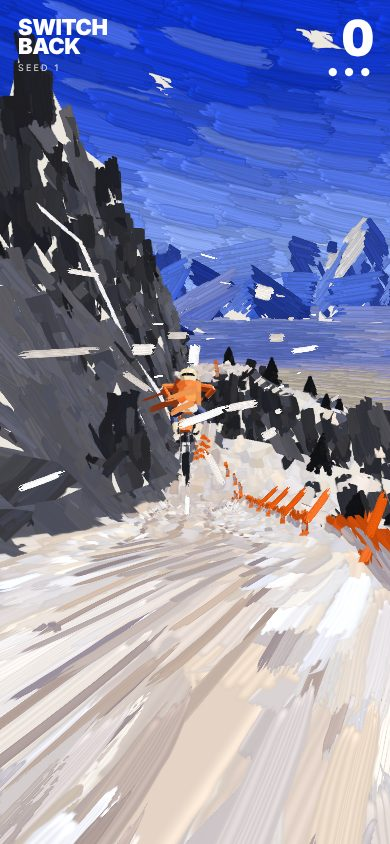
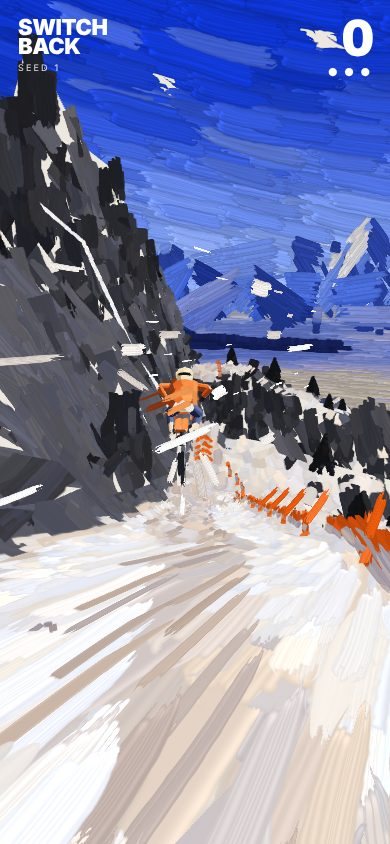
lab/switchback: backdrop parallax per layer, floor rises as you descend, clouds drift
Each backdrop layer drawn on its own, offset by an exaggerated, soft-capped
fraction of the eye's travel since start/respawn; floor rises toward the eye
with descent; painted by order; cloud strokes rotate slowly.

Claude-Session: https://claude.ai/code/session_01XxjdrEubiC3ZZ3ppUeUc93

diff --git a/cells/lab/client/switchback/render.ts b/cells/lab/client/switchback/render.ts
@@ -18,7 +18,7 @@ import type { Rider, Event } from './sim';
 import { GEARS } from './audio';
 import { buildRuts, Trail } from './ruts';
 import { buildGouges } from './gouge';
-import { STROKE, Painter, Strokes, Brush2D, strokesOver, skyStrokes, lineOf, courseStrokes, rangeStrokes, foothillStrokes, valleyStrokes, fallStrokes, flagStrokes, riderStrokes, partShadowStrokes } from './paint';
+import { STROKE, Painter, Strokes, Brush2D, strokesOver, skyStrokes, lineOf, courseStrokes, backdropLayers, valleyStrokes, fallStrokes, flagStrokes, riderStrokes, partShadowStrokes } from './paint';
 
 const VS = `#version 300 es
 in vec4 aP; uniform mat4 uVP; uniform vec3 uOff; uniform float uZj; out vec3 vW; flat out int vM;
@@ -101,6 +101,20 @@ export class Renderer {
   paint = false; painter: Painter | null = null; stretchWanted = 1; leadWanted: [number, number] | null = null;
   /** only the backdrop drawn (`bg=`) */
   bgOnly = false;
+  private floor: Strokes | null = null; private backLayers: { s: Strokes; f: number; cap: number }[] = []; private eye0: number[] | null = null;
+  /** the backdrop's parallax starts again from here (the start, or a respawn: the eye's cut there anyway) */
+  rebase() { this.eye0 = null; }
+  /** the clouds drifted round by game time t (about a degree every eight seconds) */
+  cloudAt(t: number) { if (this.painter) this.painter.cloud = t * 0.0022; }
+  /** a backdrop layer's offset: with the eye, less the way it's come since the base times the layer's parallax (a
+   * fraction), that drift soft-capped at `cap` metres; the floor's only down (it rises toward you as you descend, never
+   * closer than about 140 m) */
+  private layerOff(eye: number[], f: number, cap: number, floor: boolean) {
+    if (!this.eye0) this.eye0 = eye.slice();
+    const d = [0, 1, 2].map((k) => (eye[k] - this.eye0![k]) * f), m = Math.hypot(d[0], d[1], d[2]), k = m > 1e-6 ? (cap * Math.tanh(m / cap)) / m : 0;
+    if (floor) { const dy = Math.max(-180, Math.min(0, (eye[1] - this.eye0[1]) * 0.3)); return [eye[0] - d[0] * k, eye[1] - 60 - dy, eye[2] - d[2] * k]; }
+    return [eye[0] - d[0] * k, eye[1] - 60 - d[1] * k, eye[2] - d[2] * k];
+  }
   private strokes = new Map<number, Strokes>(); private backStrokes: Strokes[] = []; private moving: Strokes | null = null; private prevEye: number[] | null = null; private prevEye0: number[] | null = null; private eyeV = [0, 0, 0]; private skyS: Strokes | null = null; private prevVP: Mat | null = null;
   /** your own track, fed after each step of the sim */
   readonly trail: Trail;
@@ -159,7 +173,11 @@ export class Renderer {
     const gl = this.gl;
     if (this.paint && !this.painter) {
       this.painter = new Painter(gl, new Float32Array(PALETTE.flat().map(hex).flat()), SUN);
-      this.backStrokes = [this.painter.make(rangeStrokes(this.course.seed)), this.painter.make(valleyStrokes(this.course.seed)), this.painter.make(foothillStrokes(this.course.seed))];
+      this.floor = this.painter.make(valleyStrokes(this.course.seed));
+      // (each layer's parallax: as if it stood nearer than it does (a range 3.7 km off moves as one a few hundred metres off
+      // would, scaled), so the near hills slide against the far peaks; soft-capped, so it never comes up to you)
+      this.backLayers = backdropLayers(this.course.seed).sort((a, b) => b.R - a.R).map((l) => ({ s: this.painter!.make(l.data), f: Math.min(0.75, Math.pow(1400 / l.R, 1.2)), cap: l.R * 0.36 }));
+      this.backStrokes = [this.floor, ...this.backLayers.map((l) => l.s)];
       this.skyS = this.painter.make(skyStrokes(this.course.seed)); this.painter.stretch = this.stretchWanted; if (this.leadWanted) this.painter.lead = this.leadWanted;
       for (const b of this.chunks.values()) b.free();
       this.chunks.clear();
@@ -234,7 +252,12 @@ export class Renderer {
       // (the ranges over the sky and over each other, farthest first, by the order they're laid, not by depth: so their
       // strokes run over the skyline as a brush does, and a nearer range is painted over the one behind it; then the
       // valley, by depth, so its floor doesn't paint over the ranges' feet it lies behind)
-      paintBegin(); gl.disable(gl.DEPTH_TEST); pt.draw(this.backStrokes[0], off, false); gl.enable(gl.DEPTH_TEST); pt.draw(this.backStrokes[1], off, false); gl.disable(gl.DEPTH_TEST); pt.draw(this.backStrokes[2], off, false); gl.enable(gl.DEPTH_TEST); pt.end(); gl.useProgram(this.prog);
+      // (by order, not depth: the valley's floor first, then the layers farthest first, each moved by its own parallax;
+      // the floor rising toward you as you come down the mountain)
+      paintBegin(); gl.disable(gl.DEPTH_TEST);
+      if (this.floor) pt.draw(this.floor, this.layerOff(view.eye, 0.35, 190, true), false);
+      for (const l of this.backLayers) pt.draw(l.s, this.layerOff(view.eye, l.f, l.cap, false), false);
+      gl.enable(gl.DEPTH_TEST); pt.end(); gl.useProgram(this.prog);
       gl.disable(gl.STENCIL_TEST);
       // (what's near: its facets only in the depth; then its strokes, laid in the world on them and lifted a little toward
       // the eye, tested against that depth pixel by pixel, far chunks first)

diff --git a/cells/lab/client/switchback/paint.ts b/cells/lab/client/switchback/paint.ts
@@ -419,6 +419,11 @@ export function rangeStrokes(seed: number): Float32Array {
   for (const g of rangeProfiles(seed)) layerStrokes(g, seed, out);
   return new Float32Array(out);
 }
+/** the backdrop's layers each on its own (the ranges, the hill arcs, the foothills), with how far off each stands, so
+ * each can be moved by its own parallax */
+export function backdropLayers(seed: number): { R: number; data: Float32Array }[] {
+  return [...rangeProfiles(seed), ...foothillProfiles(seed)].map((g) => { const out: number[] = []; layerStrokes(g, seed, out); return { R: g.R, data: new Float32Array(out) }; });
+}
 export function foothillStrokes(seed: number): Float32Array {
   const out: number[] = [];
   for (const g of foothillProfiles(seed)) layerStrokes(g, seed, out);
@@ -715,11 +720,13 @@ const SEG = 8;
 const VS = `#version 300 es
 layout(location=0) in vec2 aQ; layout(location=1) in vec4 a0; layout(location=2) in vec4 a1; layout(location=3) in vec4 a2; layout(location=4) in vec4 a3; layout(location=5) in vec4 a4;
 uniform mat4 uVP, uPrev; uniform vec3 uOff, uEye, uSun; uniform vec3 uPal[100]; uniform float uFog, uK, uMinW, uStretch, uDens, uGrow, uReveal; uniform vec2 uRes, uFront;
-uniform vec3 uSkyLo, uSkyHi, uSkyPale, uSmear;
+uniform vec3 uSkyLo, uSkyHi, uSkyPale, uSmear; uniform float uCloud;
 out vec2 vUv; out vec3 vA; out vec3 vB; flat out float vStamp; out float vFresh; flat out float vTex;
 float h(float s, float k){ return fract(sin(s*k)*43758.5453); }
 void main(){
   vec3 w = a0.xyz + uOff, n = a2.xyz, T = normalize(a1.xyz); float seed = a3.x, kind = a3.w; bool sky = kind > .5 && kind < 2.5, both = kind > 2.5;
+  // (the clouds drift round the sky, the wind's way)
+  if (sky && a0.w > 1.9) { float ca = cos(uCloud), sa = sin(uCloud); vec3 r = a0.xyz; w = vec3(r.x*ca - r.z*sa, r.y, r.x*sa + r.z*ca) + uOff; T = normalize(vec3(T.x*ca - T.z*sa, T.y, T.x*sa + T.z*ca)); n = vec3(n.x*ca - n.z*sa, n.y, n.x*sa + n.z*ca); }
   vec3 V = uEye - w; float dist = length(V); V /= max(dist, 1e-4);
   // (the paint front: a stroke at its station is laid, tail to head, as the front for its pass comes past; the backdrop
   // and what moves are laid as the page opens)
@@ -848,7 +855,7 @@ export class Painter {
     const p = gl.createProgram()!; gl.attachShader(p, sh(gl.VERTEX_SHADER, VS)); gl.attachShader(p, sh(gl.FRAGMENT_SHADER, FS)); gl.linkProgram(p);
     if (!gl.getProgramParameter(p, gl.LINK_STATUS)) throw new Error(gl.getProgramInfoLog(p) ?? 'link');
     this.prog = p;
-    for (const k of ['uSmear', 'uVP', 'uPrev', 'uOff', 'uEye', 'uSun', 'uPal', 'uFog', 'uK', 'uMinW', 'uStretch', 'uDens', 'uRes', 'uAtlas', 'uSkyLo', 'uSkyHi', 'uSkyPale', 'uFront', 'uGrow', 'uReveal']) this.u[k] = gl.getUniformLocation(p, k);
+    for (const k of ['uSmear', 'uVP', 'uPrev', 'uOff', 'uEye', 'uSun', 'uPal', 'uFog', 'uK', 'uMinW', 'uStretch', 'uDens', 'uRes', 'uAtlas', 'uSkyLo', 'uSkyHi', 'uSkyPale', 'uCloud', 'uFront', 'uGrow', 'uReveal']) this.u[k] = gl.getUniformLocation(p, k);
     gl.useProgram(p);
     gl.uniform3fv(this.u.uPal, palette); gl.uniform3fv(this.u.uSun, new Float32Array(sun));
     gl.uniform3f(this.u.uSkyLo, 0.55, 0.67, 0.96); gl.uniform3f(this.u.uSkyHi, 0.05, 0.2, 0.8); gl.uniform3f(this.u.uSkyPale, 0.62, 0.72, 0.98);
@@ -880,10 +887,12 @@ export class Painter {
     gl.uniform3fv(this.u.uEye, new Float32Array(eye)); gl.uniform1f(this.u.uK, projY); gl.uniform2f(this.u.uRes, w, h);
     gl.uniform1f(this.u.uMinW, 2.4 * dpr); gl.uniform1f(this.u.uStretch, this.stretch); gl.uniform1f(this.u.uDens, this.dens);
     const fr = this.front ?? [-1e9, -1e9]; gl.uniform2f(this.u.uFront, fr[0], fr[1]); gl.uniform1f(this.u.uGrow, this.grow);
-    gl.uniform1f(this.u.uReveal, Math.min(1, (performance.now() - this.born) / 1600));
+    gl.uniform1f(this.u.uReveal, Math.min(1, (performance.now() - this.born) / 1600)); gl.uniform1f(this.u.uCloud, this.cloud);
     gl.activeTexture(gl.TEXTURE0); gl.bindTexture(gl.TEXTURE_2D, this.atlas); gl.uniform1i(this.u.uAtlas, 0);
     gl.enable(gl.BLEND); gl.blendFuncSeparate(gl.ONE, gl.ONE_MINUS_SRC_ALPHA, gl.ZERO, gl.ONE); gl.depthMask(false);
   }
+  /** how far round the clouds have drifted (rad) */
+  cloud = 0;
   draw(s: Strokes, off: number[], fog: boolean) {
     const gl = this.gl;
     if (!s.n) return;

diff --git a/cells/lab/client/switchback/main.ts b/cells/lab/client/switchback/main.ts
@@ -153,7 +153,7 @@ function closeLook(): View | null {
   const eye = look === 'side' ? at(0, 3.6, 1.1) : look === 'front' ? at(4.2, 0.4, 1.3) : look === 'rear' ? at(-4, 0.3, 1.4) : at(-2.6, 2.8, 1.7);
   return { eye, target: at(0, 0, 0.85), fov: 0.8, roll: 0 };
 }
-function snapEye() { cam.h = rider.travel; cam.eye = [rider.x - Math.sin(rider.travel) * 6, rider.y + 3.5, rider.z - Math.cos(rider.travel) * 6]; cam.shake = 0; }
+function snapEye() { rd.rebase(); cam.h = rider.travel; cam.eye = [rider.x - Math.sin(rider.travel) * 6, rider.y + 3.5, rider.z - Math.cos(rider.travel) * 6]; cam.shake = 0; }
 function view(dt: number, t: number): View {
   const close = closeLook(); if (close) return close;
   const k = 1 - Math.exp(-dt * (rider.air ? 1.6 : 3.2));
@@ -368,6 +368,7 @@ function tick(dt: number) {
   if ((zjit || ejit || hold) && !heldView && performance.now() - t0 > 4000) heldView = { ...vw, eye: vw.eye.slice(), target: vw.target.slice() };
   if (ejit) { const e = (drawn % 2) * 0.01; vw.eye = [vw.eye[0] + e, vw.eye[1], vw.eye[2]]; vw.target = [vw.target[0] + e, vw.target[1], vw.target[2]]; }
   if (bgFlag) { const [yw = 0, pc = 4, fv = 60] = bgFlag.map((v) => (v * Math.PI) / 180), d = 100; rd.bgOnly = true; vw.target = [vw.eye[0] + Math.sin(yw) * Math.cos(pc) * d, vw.eye[1] + Math.sin(pc) * d, vw.eye[2] + Math.cos(yw) * Math.cos(pc) * d]; vw.roll = 0; vw.fov = fv; }
+  rd.cloudAt(t);
   rd.frame(vw, rider, t, still || paused ? 0 : dt, drawn++ < 2 ? 99 : 1);
   // (`inktext=<words>`: those words lettered every two seconds, for looking at the lettering)
   if (inkText && t - inkAt > 2) { callouts.say(inkText, t); inkAt = t; }

diff --git a/cells/lab/static/switchback.md b/cells/lab/static/switchback.md
@@ -124,7 +124,7 @@ An experiment in drawing the mountain as paint, after looking closely at a brush
 - **No occlusion holes.** Only the ground and the rider claim depth and the stencil. The things standing on the ground (the fence, the poles, the pines, a kicker's boards), the flags and the falls claim neither: what's behind them is painted (the ground, the ranges, the sky), and their strokes over it, so a gap between their strokes shows what's behind, never paper. In each chunk the ground's strokes and the way's are laid first, the things' after them, by order; and the things are laid with the masses' front, not the detail's, so they're there as soon as the ground they stand on is. (The rider keeps its depth: its strokes are on both sides of it, and its own depth hides its far side.)
 - **Flags.** Painted by how far off they are. Near (within about 25 m, gone by 40): strokes riding the cloth, four rows from the pole to the free end, four along each, each tied to its own place on the cloth rather than to a facet (painted facet by facet, their strokes were reshaped every frame and shimmered), so they move with the wave and hold still on it; the wave in their colour, lit or in shade as the cloth turns to the sun. Far (from about 20 m): the banner one gesture, a flick from the pole's top out along it, whipping thin, and a shorter one over it, an orange mark on a pole that reads from far ahead. Between, one fades into the other. The pole is one dark upright stroke. (Seed 1 has flags at 155, 527, 899, 1395.)
 - **Waterfalls.** Not a ribbon but strokes in several sheets, one in front of another: the back one lilac-grey and dense (the water in shadow, covering the fall), white over it, a few pale blue in front; each a run of streaks sliding down the fall's arc with the water, drawn out by how fast it's falling where it is (short at the lip, long below), growing as it comes over and shrinking as it lands; a few strokes across the lip, glassy; spray at the foot, dabs thrown up and out, growing and fading. Built each frame, every streak keeping its place in the flow, so it moves with the water rather than flickering. (`at=<station>` puts you on the line at a station, for looking at a place: seed 1 has falls at 621, 813, 1186, 1629.)
-- **The far off.** In layers that recede, each further one hazed toward the sky's pale horizon: a snow massif (its crest broken by sub-summits and notches all along, not a row of cones), a nearer snowy range, a range of blue hills, four arcs of forested hills nearer, taller and darker the nearer, overlapping so they stack up the middle distance (the valley opening between them), then the valley's floor and its forested foothills. Under each summit a spur runs down toward you, wandering, with a branch or two leaving it down and outward (a shoulder sends a shorter one); under the crest the nearest spur decides a stroke's plane: the side of it the stroke is on faces that way, lit on the left, shaded on the right, the strokes running down and away from it, so the mountain splits into chevrons at more than one scale, and snow runs down the spurs' crests below the snow line. A stroke turns down a spur's plane only where its head, wherever it lands, stays under the crest there, and a stroke along the crest stays within its segment (run on, it carried on up past the summit). Each plane is one colour, decided when it's planned (lit or in shade by its side, snow or not), with a neighbouring colour streaked in now and then, and its strokes long: calm planes, not a flicker of light and dark stroke by stroke. A forest is painted over its hill's lower slopes: a dense dark band, its top serrated with close-set treetops, rising and falling along the hill. Each layer is painted by its form, not its faces: its crest simplified to the segments that matter (a summit, a shoulder, a long saddle), each segment painted in rows under it, every stroke sized by its segment, so a long flat saddle is a few long level strokes, not hundreds of identical ones (they made a ruled band of hatching), and a steep flank many shorter ones along the ridge, turning down the fall lower down; the strokes along the crest cut the skyline clean. Snow in streaks along the ridges and down the gullies above the snow line, warm where it's lit. Lit as a painter lights the far off, not by the sun: from the left of the way you look, so a peak always shows a lit flank and one in shade (by the sun, half the peaks were backlit). Painted in order, not by depth: the sky everywhere, the layers farthest first over it, so their strokes run over the skyline as a brush does; the valley's floor by depth (fields in patches of ochre, lavender and blues, laid level round the eye, broader further off; the river a thin pale line along it); the foothills over that, a dark forest band along each one's foot, its top ragged with treetops. The sky deepens from a pale horizon to the top in long calm strokes on one slant, with a few clouds, each a cluster of pale strokes lit above and shaded under. `bg=yaw,pitch,fov` shows the backdrop alone.
+- **The far off.** In layers that recede, each further one hazed toward the sky's pale horizon: a snow massif (its crest broken by sub-summits and notches all along, not a row of cones), a nearer snowy range, a range of blue hills, four arcs of forested hills nearer, taller and darker the nearer, overlapping so they stack up the middle distance (the valley opening between them), then the valley's floor and its forested foothills. Under each summit a spur runs down toward you, wandering, with a branch or two leaving it down and outward (a shoulder sends a shorter one); under the crest the nearest spur decides a stroke's plane: the side of it the stroke is on faces that way, lit on the left, shaded on the right, the strokes running down and away from it, so the mountain splits into chevrons at more than one scale, and snow runs down the spurs' crests below the snow line. A stroke turns down a spur's plane only where its head, wherever it lands, stays under the crest there, and a stroke along the crest stays within its segment (run on, it carried on up past the summit). Each plane is one colour, decided when it's planned (lit or in shade by its side, snow or not), with a neighbouring colour streaked in now and then, and its strokes long: calm planes, not a flicker of light and dark stroke by stroke. A forest is painted over its hill's lower slopes: a dense dark band, its top serrated with close-set treetops, rising and falling along the hill. Each layer is painted by its form, not its faces: its crest simplified to the segments that matter (a summit, a shoulder, a long saddle), each segment painted in rows under it, every stroke sized by its segment, so a long flat saddle is a few long level strokes, not hundreds of identical ones (they made a ruled band of hatching), and a steep flank many shorter ones along the ridge, turning down the fall lower down; the strokes along the crest cut the skyline clean. Snow in streaks along the ridges and down the gullies above the snow line, warm where it's lit. Lit as a painter lights the far off, not by the sun: from the left of the way you look, so a peak always shows a lit flank and one in shade (by the sun, half the peaks were backlit). Painted in order, not by depth: the sky everywhere, the layers farthest first over it, so their strokes run over the skyline as a brush does; the valley's floor by depth (fields in patches of ochre, lavender and blues, laid level round the eye, broader further off; the river a thin pale line along it); the foothills over that, a dark forest band along each one's foot, its top ragged with treetops. The sky deepens from a pale horizon to the top in long calm strokes on one slant, with a few clouds, each a cluster of pale strokes lit above and shaded under. It was drawn about the eye, moved with it every frame, so it was as if it stood infinitely far off: it turned as you turned, never moved as you rode, and the valley's floor stayed the same depth under you all the way down. Now each layer has its own parallax, as if it stood nearer than it does (a fraction of the way you've come since the start or your last respawn, more for the nearer layers: the foothills and hill arcs about three quarters, the snow massif about a third), soft-capped at about a third of its distance so you never come up to it: over a few hundred metres the near hills slide against the far peaks and the ranges ahead rise and spread. The valley's floor rises toward you as you come down the mountain (never closer than about 140 m). It's all painted by order, not depth: the floor, then the layers farthest first. The clouds drift round the sky. `bg=yaw,pitch,fov` shows the backdrop alone.
 - **The speed layer too.** Its shards, the smears off the posts, the air off the rider and the debris are laid with the same stamps, tinted: a wedge becomes a long stroke tapering the same way, a chip a dab.
 
 The marks come from an atlas of sixteen brush stamps made when the page loads: flats, rounds, a dab, dry flats running out, a long flat, flicks (heavy at the start, whipped thin, curving), impasto (a few thick bristles, deep ridges, ragged edges), a scumble (dragged dry over the paper's tooth), a wash (soft-edged, smooth), a fan (bristles splayed), a palette knife (flat, hard-edged, cut on a slant, paint ridged at its sides) and a rake. Each is a brush of bristles that clump (bands of their own widths), every bristle with its own load of paint, touching down and lifting a little apart from the rest, running dry along the stroke, and piling paint where it lifts. Each subject has its own brushes: the road flats and the knife; the snow rounds, dabs, washes, scumbles, fans and flicks; the rock dry flats, impasto, the knife and the rake; the far ranges long flats and washes. And no two strokes are alike: each a little lighter or darker, warmer or cooler. They.re drawn instanced, blended (premultiplied) in a fixed order, far chunks first.
